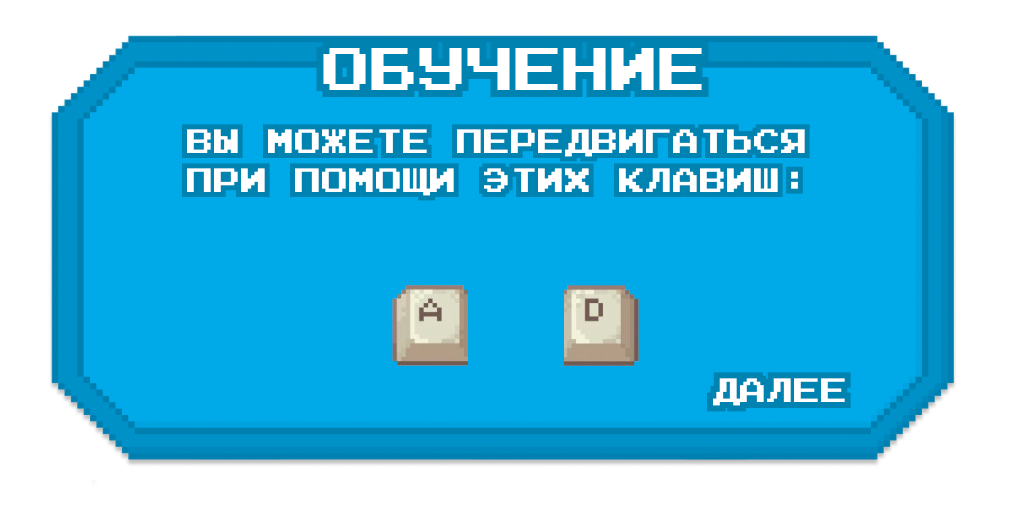
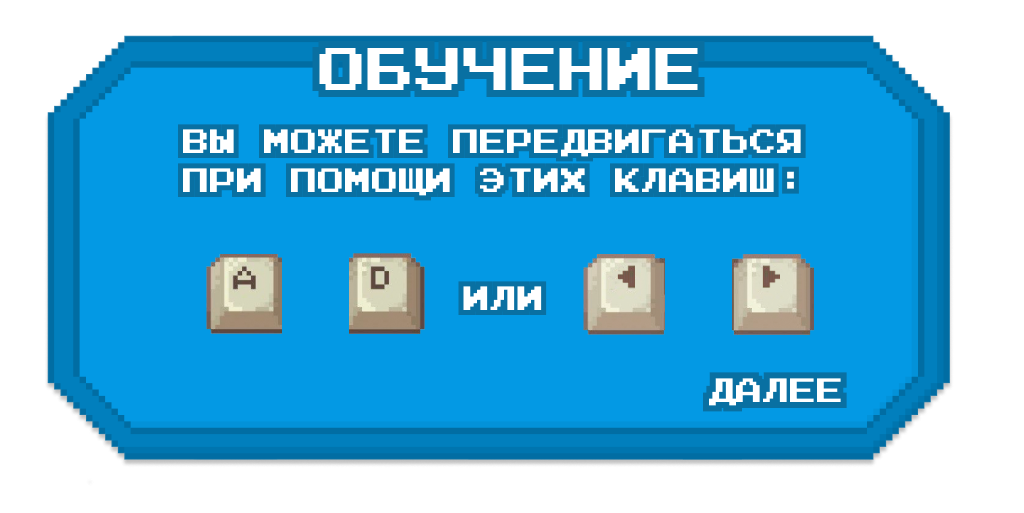
FUCKING GAME

diff --git a/MATMEH QUEST/View.cs b/MATMEH QUEST/View.cs
@@ -16,6 +16,7 @@ namespace MATMEH_QUEST
         private bool isMainMenu;
         private bool isTutorial1;
         private bool isTutorial2;
+        private bool isTutorial3;
         private bool isMenu;
         private bool isDialog1;
         private bool isDialog2;
@@ -66,7 +67,11 @@ namespace MATMEH_QUEST
             }
             else if (isTutorial2)
             {
-                PaintTrain(graphics, Resources.Обучение_2, 430, 870,  OverButtonOnClick);
+                PaintTrain(graphics, Resources.Обучение_2, 250, 1050,  NextOnClick);
+            }
+            else if (isTutorial3)
+            {
+                PaintTrain(graphics, Resources.Обучение_3, 430, 870, OverButtonOnClick);
             }
             else if (isMenu)
             {
@@ -77,11 +82,11 @@ namespace MATMEH_QUEST
                 if(isDialog1)
                     PaintDialogWithD(graphics, Resources.Деканат_диалог1, 190, 880, Dialog1OnClick);
                 else if(isDialog2)
-                    PaintDialogWithD(graphics, Resources.Деканат_диалог2, 190, 840, Dialog2OnClick);
+                    PaintDialogWithD(graphics, Resources.Деканат_диалог2, 190, 880, Dialog2OnClick);
                 else if (isDialog3)
-                    PaintDialogWithD(graphics, Resources.Деканат_диалог3, 190, 840, Dialog3OnClick);
+                    PaintDialogWithD(graphics, Resources.Деканат_диалог3, 190, 880, Dialog3OnClick);
                 else if (isDialog4)
-                    PaintDialogWithD(graphics, Resources.Деканат_диалог4, 190, 840, Dialog4OnClick);
+                    PaintDialogWithD(graphics, Resources.Деканат_диалог4, 250, 810, Dialog4OnClick);
             }
             else if (Controller.Game.FlagMatan)
             {
@@ -451,14 +456,23 @@ namespace MATMEH_QUEST
 
         private void NextOnClick(object sender, EventArgs e)
         {
-            isTutorial1 = false;
+            if (isTutorial1)
+            {
+                isTutorial1 = false;
+                isTutorial2 = true;
+            }
+            else if(isTutorial2)
+            {
+                isTutorial2 = false;
+                isTutorial3 = true;
+            }
             Controls.Clear();
             Invalidate();
         }
 
         private void OverButtonOnClick(object sender, EventArgs e)
         {
-            isTutorial2 = false;
+            isTutorial3 = false;
             Controls.Clear();
             Invalidate();
         }

diff --git a/MATMEH QUEST/Properties/Resources.Designer.cs b/MATMEH QUEST/Properties/Resources.Designer.cs
@@ -92,6 +92,16 @@ namespace MATMEH_QUEST.Properties {
         /// <summary>
         ///   Looks up a localized resource of type System.Drawing.Bitmap.
         /// </summary>
+        public static System.Drawing.Bitmap crestik {
+            get {
+                object obj = ResourceManager.GetObject("crestik", resourceCulture);
+                return ((System.Drawing.Bitmap)(obj));
+            }
+        }
+        
+        /// <summary>
+        ///   Looks up a localized resource of type System.Drawing.Bitmap.
+        /// </summary>
         public static System.Drawing.Bitmap Door {
             get {
                 object obj = ResourceManager.GetObject("Door", resourceCulture);
@@ -400,6 +410,16 @@ namespace MATMEH_QUEST.Properties {
         }
         
         /// <summary>
+        ///   Looks up a localized resource of type System.Drawing.Bitmap.
+        /// </summary>
+        public static System.Drawing.Bitmap Обучение_3 {
+            get {
+                object obj = ResourceManager.GetObject("Обучение_3", resourceCulture);
+                return ((System.Drawing.Bitmap)(obj));
+            }
+        }
+        
+        /// <summary>
         ///   Looks up a localized resource of type System.IO.UnmanagedMemoryStream similar to System.IO.MemoryStream.
         /// </summary>
         public static System.IO.UnmanagedMemoryStream Олег_Кензов___По_Кайфу {
@@ -414,6 +434,16 @@ namespace MATMEH_QUEST.Properties {
         public static System.Drawing.Bitmap Свиток {
             get {
                 object obj = ResourceManager.GetObject("Свиток", resourceCulture);
+                return ((System.Drawing.Bitmap)(obj));
+            }
+        }
+        
+        /// <summary>
+        ///   Looks up a localized resource of type System.Drawing.Bitmap.
+        /// </summary>
+        public static System.Drawing.Bitmap Табличка {
+            get {
+                object obj = ResourceManager.GetObject("Табличка", resourceCulture);
                 return ((System.Drawing.Bitmap)(obj));
             }
         }
